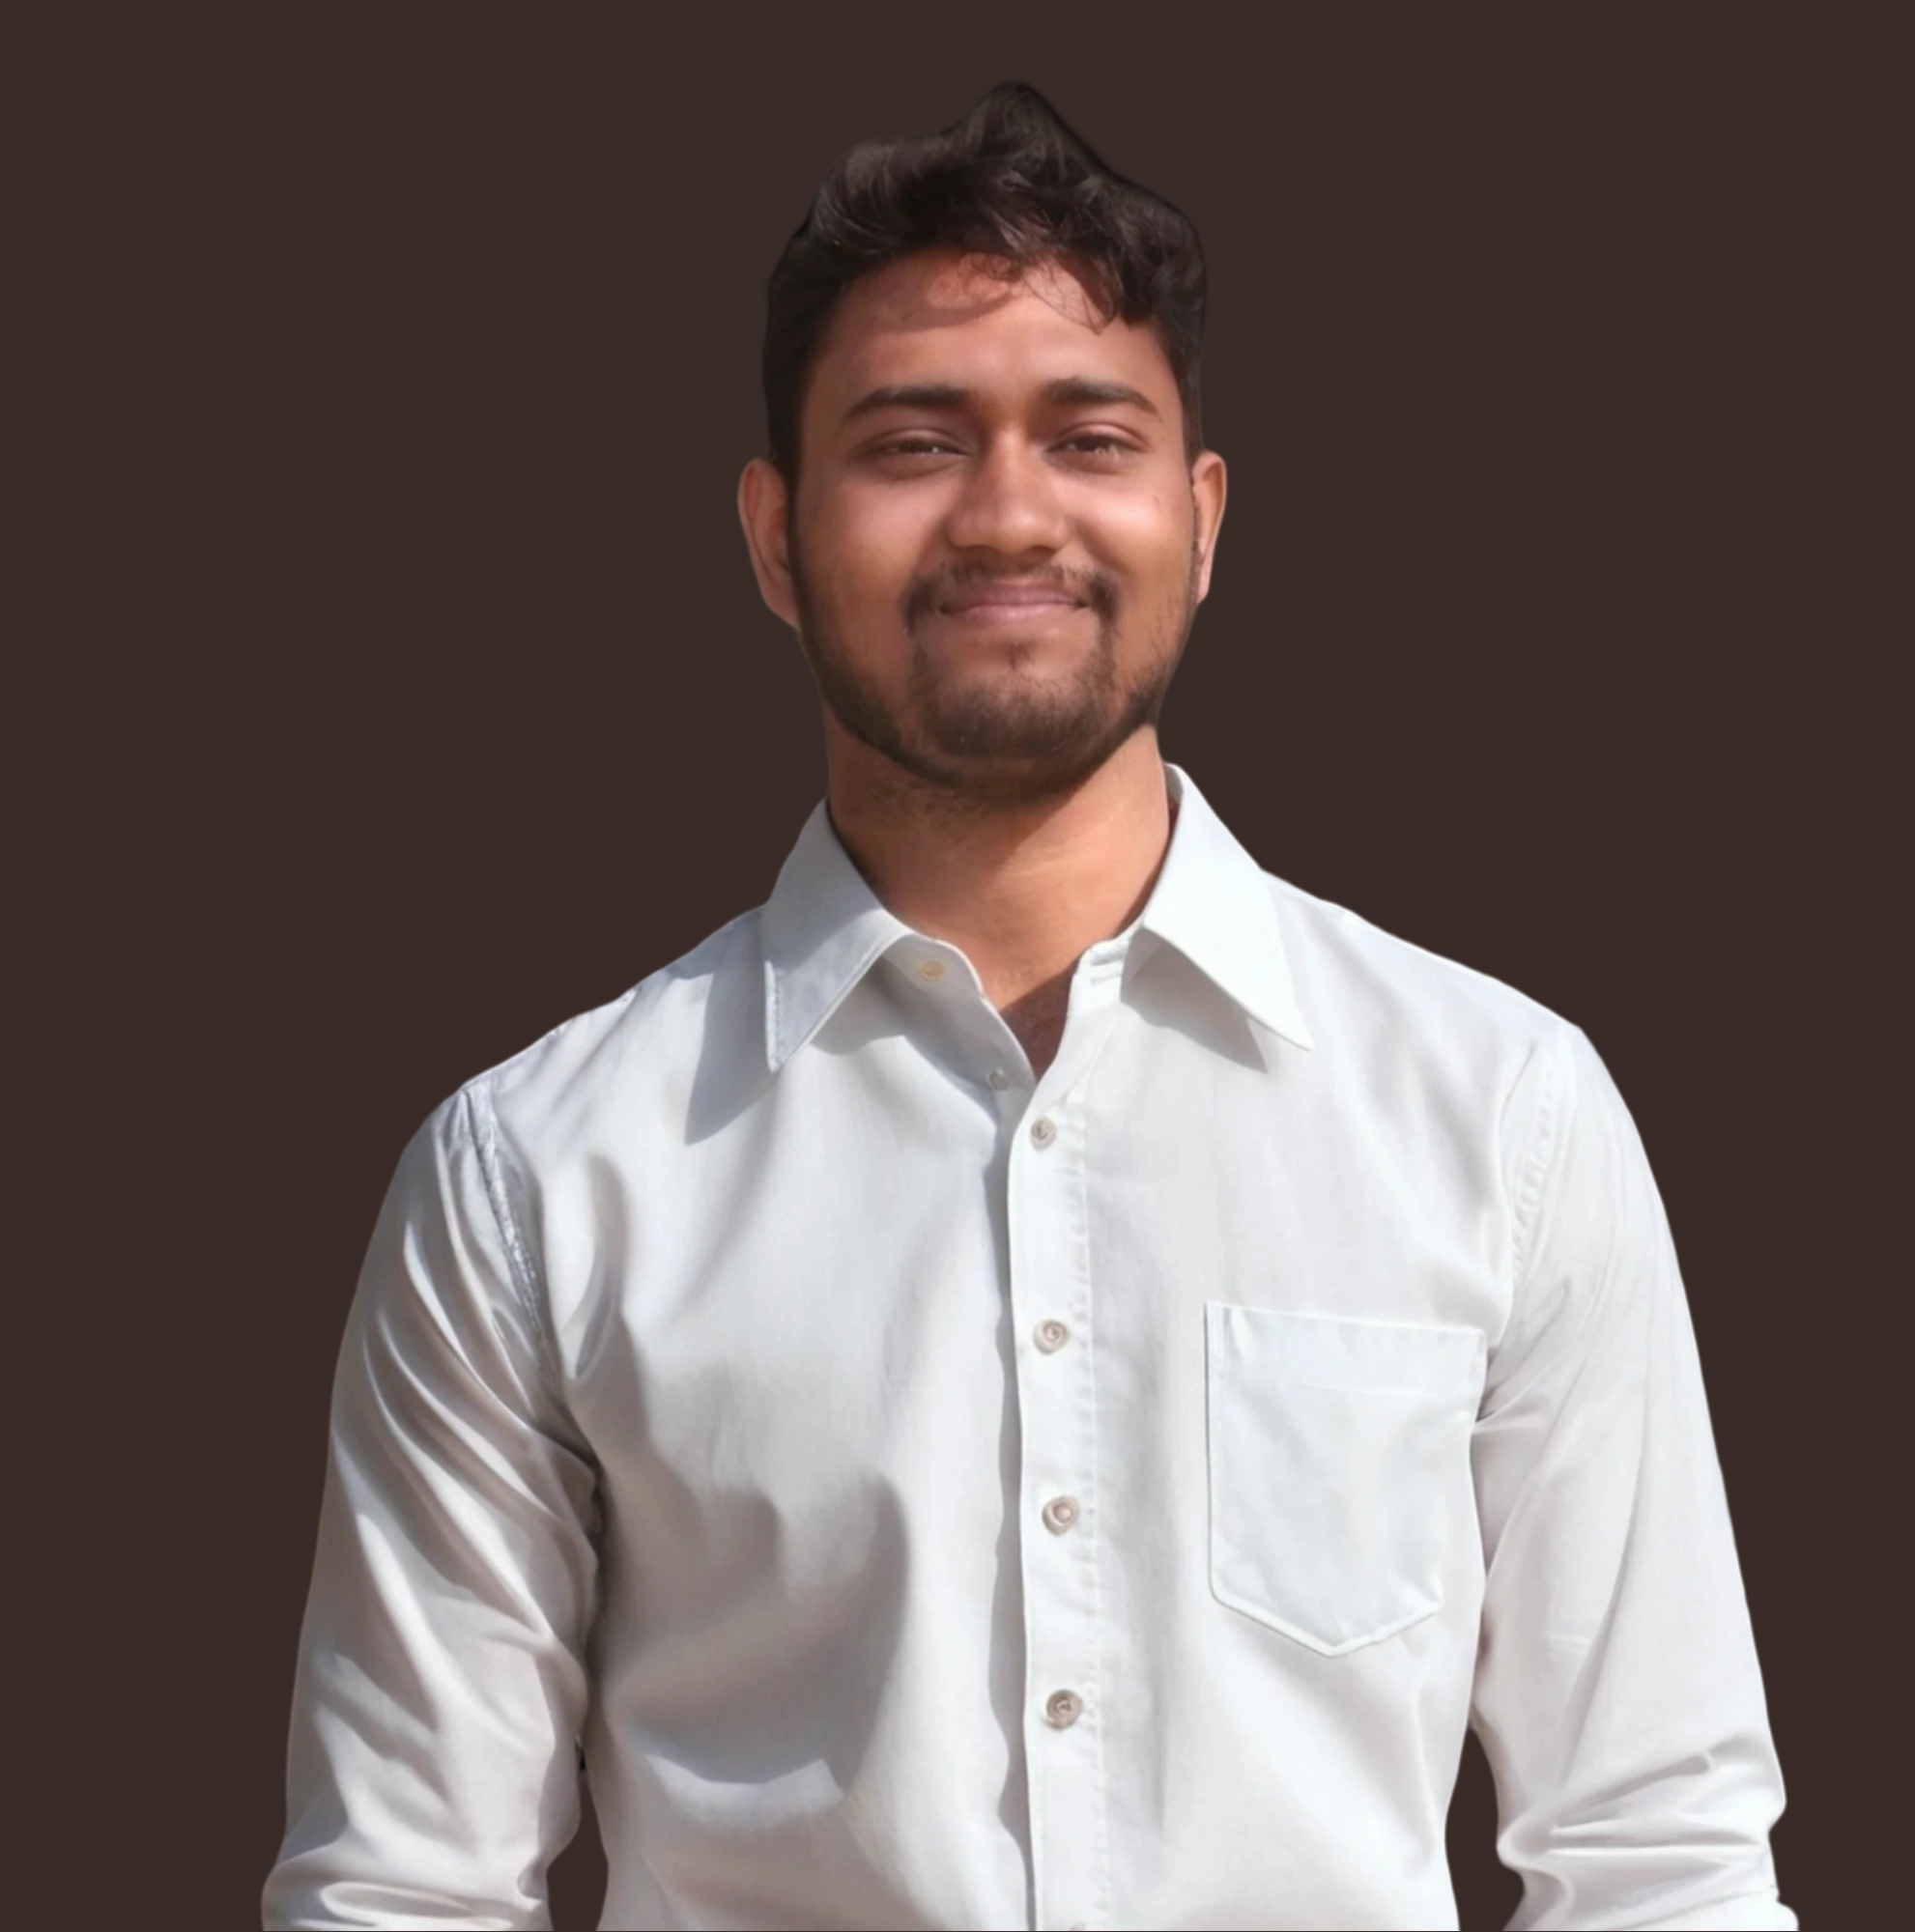
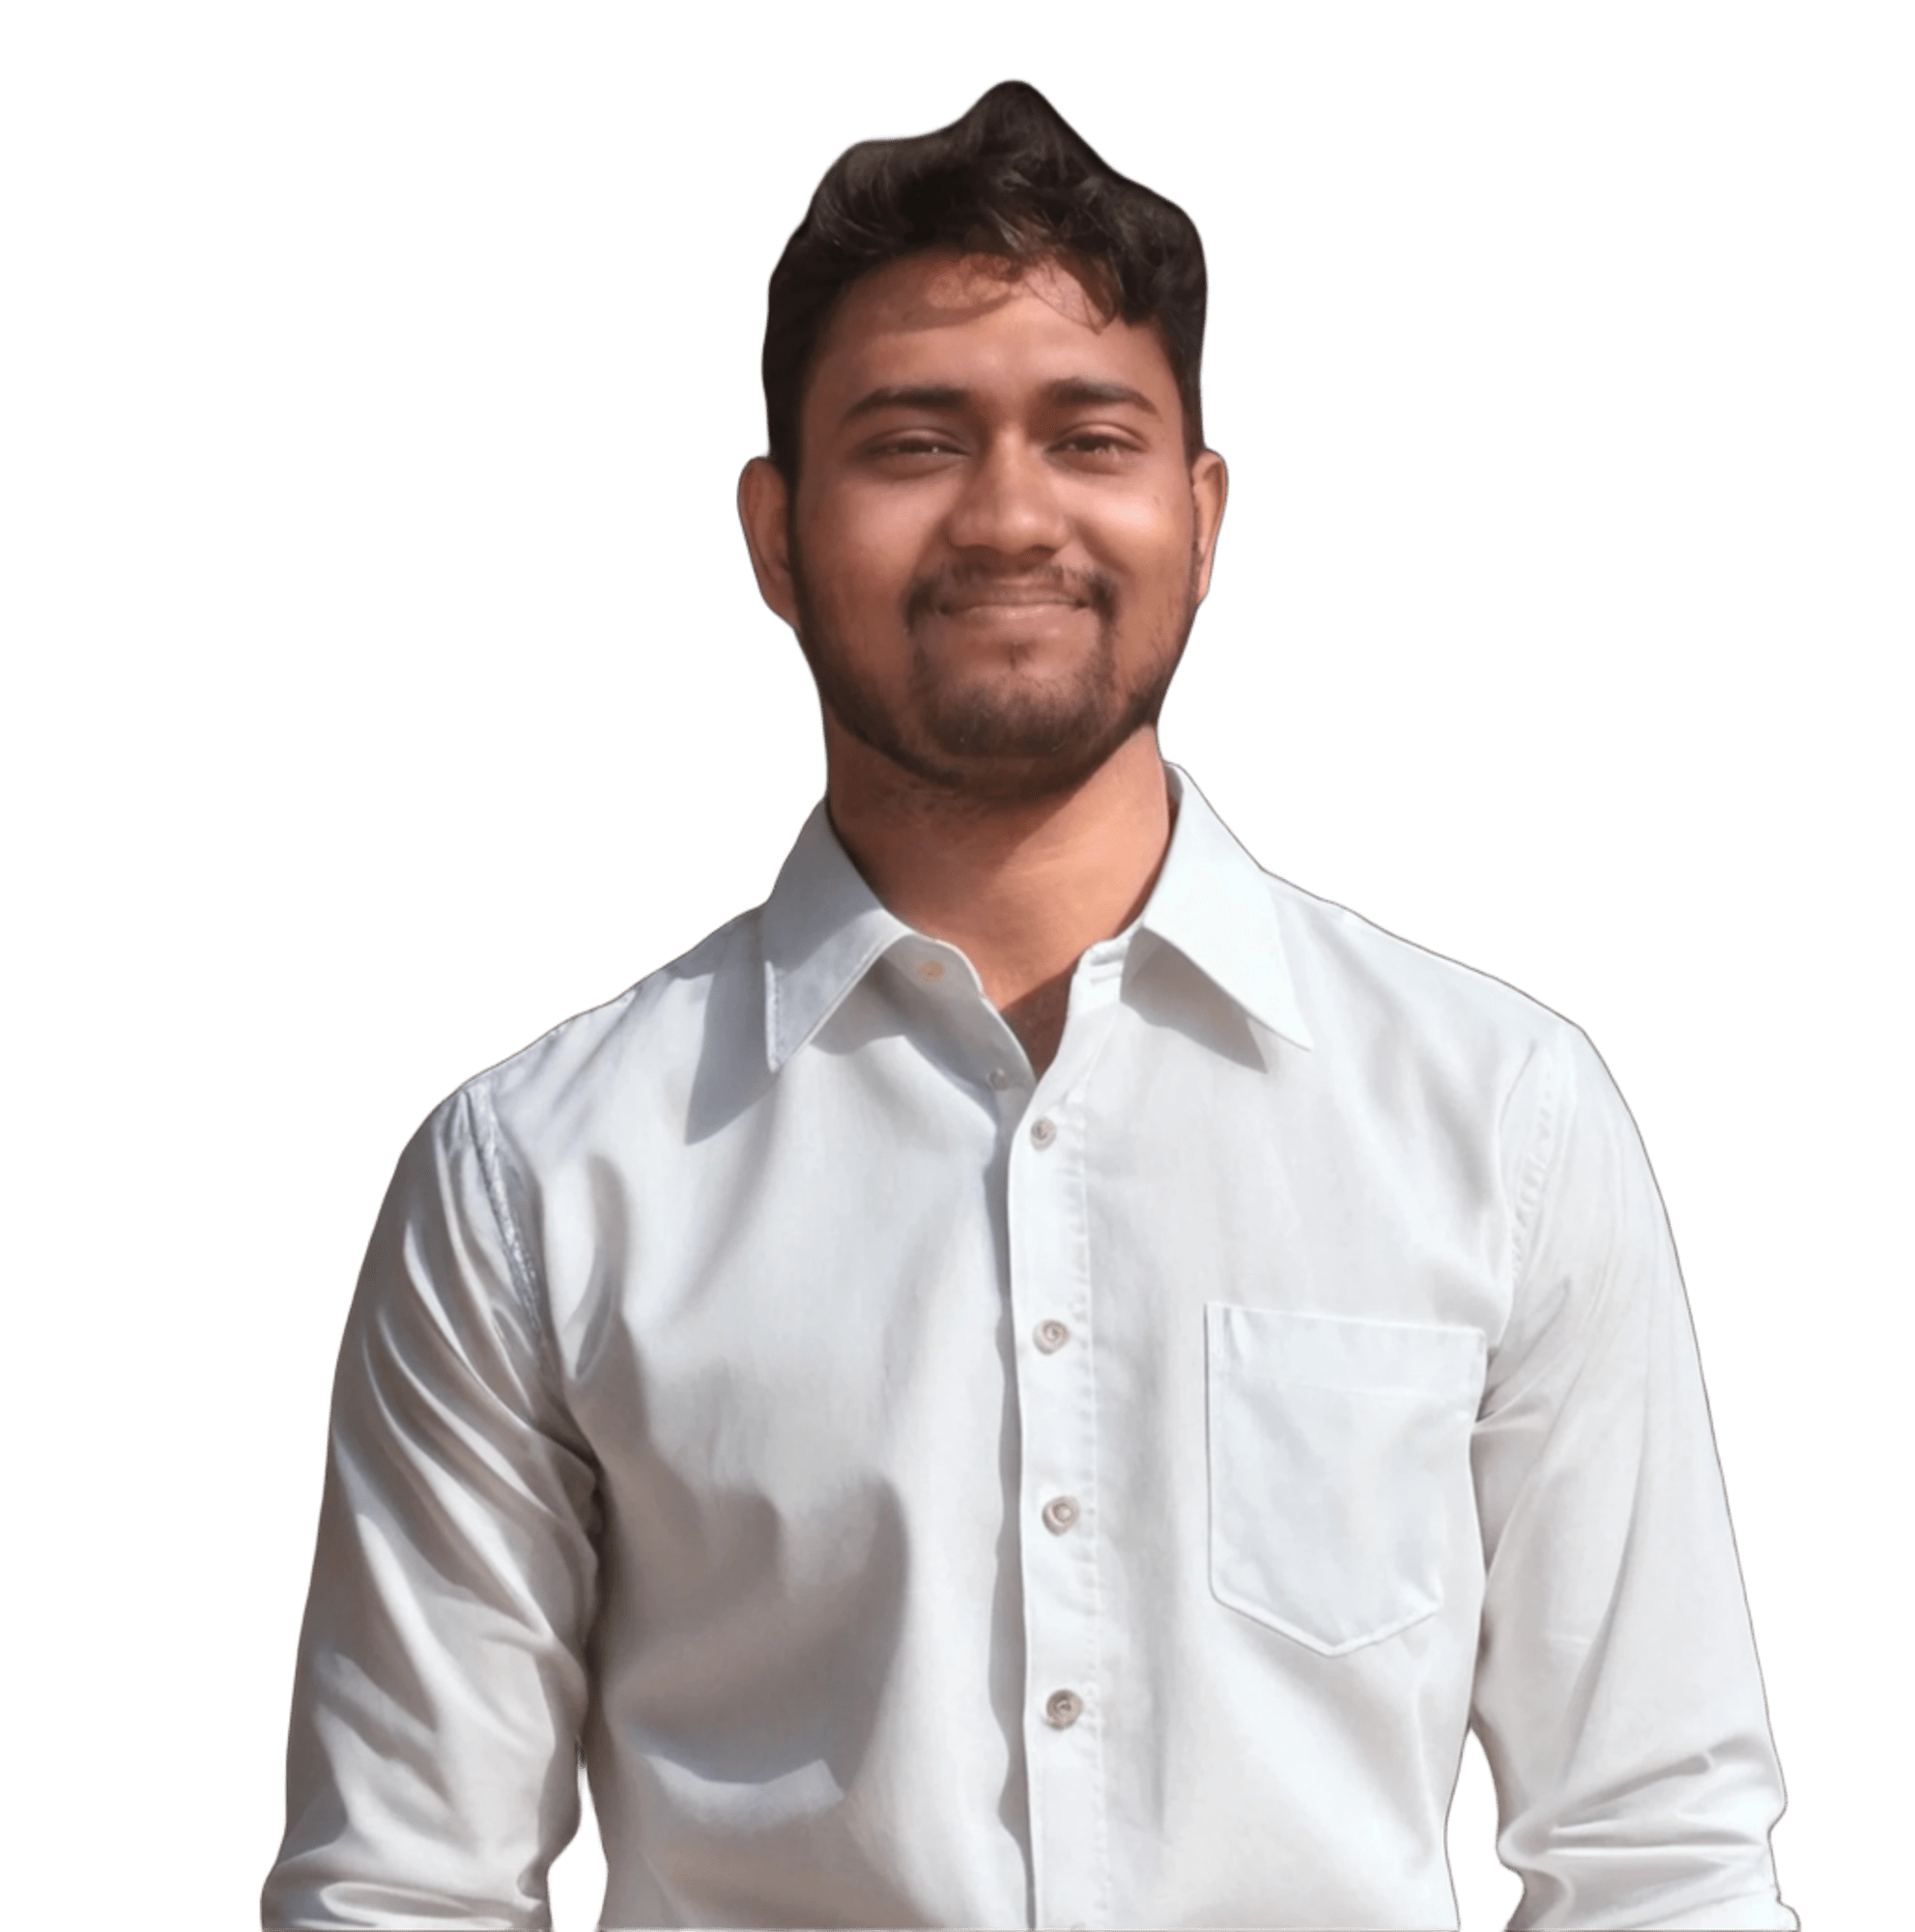
about section UI updated

diff --git a/src/app/sections/about.jsx b/src/app/sections/about.jsx
@@ -9,6 +9,13 @@ import git from "@/app/assets/skills badge/git.svg"
 import github from "@/app/assets/skills badge/github.svg"
 import Image from "next/image"
 import { Accordion, AccordionItem as Item } from '@szhsin/react-accordion';
+import { IoBriefcaseOutline } from "react-icons/io5";
+import { SlGlobe } from "react-icons/sl";
+import { TbPuzzle } from "react-icons/tb";
+import { FaRegUser } from "react-icons/fa6";
+import { FaCode } from "react-icons/fa6";
+import { FiServer } from "react-icons/fi";
+import { IoMailOutline } from "react-icons/io5";
 import styles from "./accordion.module.css";
 import { IoIosArrowDown } from "react-icons/io";
 import { TiInfoLarge } from "react-icons/ti";
@@ -26,10 +33,10 @@ const AccordionItem = ({ header, ...rest }) => (
                 <IoIosArrowDown className={styles.chevron} />
             </>
         }
-        className={styles.item}
+        className={`${styles.item} mt-2  border !border-base-content/10 rounded-lg`}
         buttonProps={{
             className: ({ isEnter }) =>
-                `${styles.itemBtn} ${isEnter && styles.itemBtnExpanded}`,
+                `${styles.itemBtn} ${isEnter && styles.itemBtnExpanded} rounded-lg`,
         }}
         contentProps={{ className: styles.itemContent }}
         panelProps={{ className: styles.itemPanel }}
@@ -46,31 +53,37 @@ function About() {
                     <div className=" max-w-[60ch] xl:mx-auto">
 
                         <div className="space-y-4 ">
-                            <h2 className="text-2xl font-bold inline-flex gap-1.5 items-center">
-                                <TiInfoLarge className="text-3xl" /> About Me
-                            </h2>
+
+                            <div>
+                                <h2 className="text-2xl font-bold tracking-wider">
+                                    About Me
+                                </h2>
+                                <div className="w-12 h-1 bg-warning/80 rounded-full mt-3"></div>
+                            </div>
 
                             <AboutYear />
 
-                            <p className="pl-4 text-lg">As someone who spends most of my time in front of a computer, I've developed a knack for <strong>learning quickly</strong> and <strong>solving tech-related challenges</strong>. Whether it's <strong>debugging code</strong> or assisting friends with their PC issues through TeamViewer, technology has always been a natural strength of mine.</p>
+                            <p className="text-lg">As someone who spends most of my time in front of a computer, I've developed a knack for <strong>learning quickly</strong> and <strong>solving tech-related challenges</strong>. Whether it's <strong>debugging code</strong> or assisting friends with their PC issues through TeamViewer, technology has always been a natural strength of mine.</p>
                         </div>
 
                         <div className="mt-8 space-y-4 ">
-                            <h2 className="text-2xl font-bold inline-flex gap-2 items-center">
-                                <PiStarFourFill className="text-xl" /> Skills
+                            <h2 className="text-warning font-bold inline-flex gap-2 items-center">
+                                <FaCode className="-mt-0.5" size={20} /> SKILLS
                             </h2>
-                            <p className="pl-4 text-lg">I spent two years self-learning web development before enrolling in a professional MERN stack course. I now specialize in:</p>
-                            <div className="flex flex-wrap gap-2 pl-4">
+
+                            <p className="text-lg">I spent two years self-learning web development before enrolling in a professional MERN stack course. I now specialize in:</p>
+
+                            <div className="flex flex-wrap gap-2">
                                 {/* later badges are downloaded from: https://github.com/inttter/md-badges?tab=readme-ov-file */}
-                                <Image className="rounded-sm border border-base-100 size-auto" src={nextjs} alt="next JS logo" />
-                                <Image className="rounded-sm border border-base-100/50 size-auto" src={express} alt="expressJs logo" />
-                                <Image className="rounded-sm border border-base-100/50 size-auto" src={mongodb} alt="mongodb logo" />
-                                <Image className="rounded-sm border border-base-100/50 w-[90px] h-auto" src={postgres} alt="postgres logo" />
-                                <Image className="rounded-sm border border-base-100/50 w-[90px] h-auto" src={prisma} alt="prisma logo" />
-                                <Image className="rounded-sm border border-base-100/50 w-[90px] h-auto" src={authjs} alt="authjs logo" />
-                                <Image className="rounded-sm border border-base-100/50 size-auto" src={tailwind} alt="tailwind logo" />
-                                <Image className="rounded-sm border border-base-100/50 size-auto" src={git} alt="git logo" />
-                                <Image className="rounded-sm border border-base-100/50 size-auto" src={github} alt="github logo" />
+                                <Image className="rounded-sm border border-base-content/30 size-auto" src={nextjs} alt="next JS logo" />
+                                <Image className="rounded-sm border border-base-content/30 size-auto" src={express} alt="expressJs logo" />
+                                <Image className="rounded-sm border border-base-content/30 size-auto" src={mongodb} alt="mongodb logo" />
+                                <Image className="rounded-sm border border-base-content/30 w-[90px] h-auto" src={postgres} alt="postgres logo" />
+                                <Image className="rounded-sm border border-base-content/30 w-[90px] h-auto" src={prisma} alt="prisma logo" />
+                                <Image className="rounded-sm border border-base-content/30 w-[90px] h-auto" src={authjs} alt="authjs logo" />
+                                <Image className="rounded-sm border border-base-content/30 size-auto" src={tailwind} alt="tailwind logo" />
+                                <Image className="rounded-sm border border-base-content/30 size-auto" src={git} alt="git logo" />
+                                <Image className="rounded-sm border border-base-content/30 size-auto" src={github} alt="github logo" />
                             </div>
                         </div>
 
@@ -79,12 +92,21 @@ function About() {
                     <div>
 
                         <div className=" max-md:mt-8 ">
-                            <h2 className="text-2xl font-bold inline-flex gap-2 items-center">
-                                <FaQuestion className="text-xl" /> FAQs
-                            </h2>
-                            <div className={`${styles.accordion} ml-4`}>
+                            <div>
+                                <h2 className="text-2xl font-bold tracking-wider">
+                                    Frequently Asked Questions
+                                </h2>
+                                <div className="w-12 h-1 bg-warning/80 rounded-full mt-3 -mb-2"></div>
+                            </div>
+
+                            <div className={`${styles.accordion}`}>
                                 <Accordion transition transitionTimeout={250}>
-                                    <AccordionItem header="What type of services do you offer?">
+                                    <AccordionItem header={
+                                        <div className="flex gap-4 items-center">
+                                            <IoBriefcaseOutline className="text-warning/80" size={24} />
+                                            <p className="font-medium line-clamp-1">What type of services do you offer ?</p>
+                                        </div>
+                                    }>
                                         <ol className="list-decimal list-inside space-y-1">
                                             <li>Converting PSD/Figma designs into responsive, interactive React applications.</li>
                                             <li>Designing and developing RESTful APIs using MongoDB or Postgresql.</li>
@@ -92,27 +114,57 @@ function About() {
                                         </ol>
                                     </AccordionItem>
 
-                                    <AccordionItem header="Do you offer website maintenance services?">
+                                    <AccordionItem header={
+                                        <div className="flex gap-4 items-center">
+                                            <SlGlobe className="text-warning/80" size={22} />
+                                            <p className="font-medium line-clamp-1">Do you offer website maintenance services ?</p>
+                                        </div>
+                                    }>
                                         Yes, I can provide ongoing maintenance and support for your website, including updates, bug fixes, and performance optimizations.
                                     </AccordionItem>
 
-                                    <AccordionItem header="Can you integrate third-party services?">
+                                    <AccordionItem header={
+                                        <div className="flex gap-4 items-center">
+                                            <TbPuzzle className="text-warning/80" size={26} />
+                                            <p className="font-medium line-clamp-1">Can you integrate third-party services ?</p>
+                                        </div>
+                                    }>
                                         Yes, I can integrate various third-party services like payment gateways, social media logins, maps, and more into your web application.
                                     </AccordionItem>
 
-                                    <AccordionItem header="Are you open to freelance or full-time work?">
+                                    <AccordionItem header={
+                                        <div className="flex gap-4 items-center">
+                                            <FaRegUser className="text-warning/80" size={22} />
+                                            <p className="font-medium line-clamp-1">Are you open to freelance or full-time work ?</p>
+                                        </div>
+                                    }>
                                         I do have a freelance account set up. But i'm also open to job opportunities at the moment.
                                     </AccordionItem>
 
-                                    <AccordionItem header="Do you work with other tech stacks?">
+                                    <AccordionItem header={
+                                        <div className="flex gap-4 items-center">
+                                            <FaCode className="text-warning/80" size={24} />
+                                            <p className="font-medium line-clamp-1">Do you work with other tech stacks ?</p>
+                                        </div>
+                                    }>
                                         No, My expertise lies in the MERN stack, and I'm not currently looking to switch to a different tech stack.
                                     </AccordionItem>
 
-                                    <AccordionItem header="Can you host my website?">
+                                    <AccordionItem header={
+                                        <div className="flex gap-4 items-center">
+                                            <FiServer className="text-warning/80" size={24} />
+                                            <p className="font-medium line-clamp-1">Can you host my website ?</p>
+                                        </div>
+                                    }>
                                         Yes, I can handle the full deployment of your React application, including setting up hosting and connecting it to your custom domain.
                                     </AccordionItem>
 
-                                    <AccordionItem header=" How can I contact you?">
+                                    <AccordionItem header={
+                                        <div className="flex gap-4 items-center">
+                                            <IoMailOutline className="text-warning/80" size={24} />
+                                            <p className="font-medium line-clamp-1">How can I contact you ?</p>
+                                        </div>
+                                    }>
                                         You can contact me through the contact form on my portfolio, or you can email me directly at [email redacted]
                                     </AccordionItem>
                                 </Accordion>

diff --git a/src/app/sections/journey.jsx b/src/app/sections/journey.jsx
@@ -41,52 +41,52 @@ function Journey() {
 
                     <div className="max-w-[60ch] xl:mx-auto">
 
-                        <h2 className="text-2xl font-bold w-11/12">My Journey</h2>
+                        <h2 className="text-2xl font-bold w-11/12 tracking-wider">My Journey</h2>
                         <p className="mt-2 mb-3 font-medium text-base-content/60">A timeline of my learning, growth, and achievements.</p>
 
                         <ul className="timeline timeline-snap-icon timeline-compact timeline-vertical">
                             <li>
-                                <div className="timeline-middle bg-primary-content p-2 rounded-full">
+                                <div className="timeline-middle bg-warning p-2 rounded-full">
                                     <PiBookOpenLight className="text-white" size={24} />
                                 </div>
                                 <div className="timeline-end md:mb-2 mt-4 ml-4">
-                                    <time className="text-xs text-base-100 bg-primary-content/80 py-1 px-2 rounded-lg">January 2021</time>
+                                    <time className="text-xs text-base-100 bg-warning/80 py-1 px-2 rounded-lg">January 2021</time>
                                     <div className="text-lg font-semibold mt-2 mb-0.5 leading-normal">Started Learning Web Development</div>
                                     <p className="text-sm leading-normal font-medium text-base-content/60">Started learning web development from YouTube and self-practice. Spent around two years building a strong foundation in HTML, CSS, JavaScript, ReactJS, ExpressJS responsive design, and programming fundamentals.</p>
                                 </div>
-                                <hr className="bg-primary-content/50" />
+                                <hr className="bg-warning/50" />
                             </li>
                             <li>
-                                <hr className="bg-primary-content/50" />
-                                <div className="timeline-middle bg-primary-content p-2 rounded-full">
+                                <hr className="bg-warning/50" />
+                                <div className="timeline-middle bg-warning p-2 rounded-full">
                                     <SlGraduation className="text-white" size={24} />
                                 </div>
                                 <div className="timeline-end md:mb-2 mt-4 ml-4">
-                                    <time className="text-xs text-base-100 bg-primary-content/80 py-1 px-2 rounded-lg">July 2024</time>
+                                    <time className="text-xs text-base-100 bg-warning/80 py-1 px-2 rounded-lg">July 2024</time>
                                     <div className="text-lg font-semibold mt-2 mb-0.5 leading-normal">Complete Web Development Course</div>
                                     <p className="text-sm leading-normal font-medium text-base-content/60">Completed a 6-month MERN Stack course from Programming Hero. Built multiple projects and my portfolio during this time, earned a certificate, and got selected for the SCIC program.</p>
                                 </div>
-                                <hr className="bg-primary-content/50" />
+                                <hr className="bg-warning/50" />
                             </li>
                             <li>
-                                <hr className="bg-primary-content/50" />
-                                <div className="timeline-middle bg-primary-content p-2 rounded-full">
+                                <hr className="bg-warning/50" />
+                                <div className="timeline-middle bg-warning p-2 rounded-full">
                                     <RiBriefcaseFill className="text-white" size={24} />
                                 </div>
                                 <div className="timeline-end md:mb-2 mt-4 ml-4">
-                                    <time className="text-xs text-base-100 bg-primary-content/80 py-1 px-2 rounded-lg">July 2025</time>
+                                    <time className="text-xs text-base-100 bg-warning/80 py-1 px-2 rounded-lg">July 2025</time>
                                     <div className="text-lg font-semibold mt-2 mb-0.5 leading-normal">MERN Stack Internship — Aspire Internship, CUET</div>
                                     <p className="text-sm leading-normal font-medium text-base-content/60">Completed a 4-month MERN Stack internship at Chittagong University of Engineering & Technology. Worked on converting Figma designs into responsive frontends, deploying projects to cPanel, and leading a frontend team for a CMS project in the final month.</p>
                                 </div>
-                                <hr className="bg-primary-content/50" />
+                                <hr className="bg-warning/50" />
                             </li>
                             <li>
-                                <hr className="bg-primary-content/50" />
-                                <div className="timeline-middle bg-primary-content p-2 rounded-full">
+                                <hr className="bg-warning/50" />
+                                <div className="timeline-middle bg-warning p-2 rounded-full">
                                     <MdLaptopMac className="text-white" size={24} />
                                 </div>
                                 <div className="timeline-end md:mb-2 mt-4 ml-4">
-                                    <time className="text-xs text-base-100 bg-primary-content/80 py-1 px-2 rounded-lg">April 2026</time>
+                                    <time className="text-xs text-base-100 bg-warning/80 py-1 px-2 rounded-lg">April 2026</time>
                                     <div className="text-lg font-semibold mt-2 mb-0.5 leading-normal">Freelancing Training — DYD E-Learning & Earning LTD</div>
                                     <p className="text-sm leading-normal font-medium text-base-content/60">Joined a 3-month freelancing program under Department of Youth Development. Learned WordPress, SEO, and digital marketing, and received a government-verifiable certificate after completion.</p>
                                 </div>
@@ -98,7 +98,7 @@ function Journey() {
                     <div>
 
                         <div className="flex items-center gap-4 mb-2">
-                            <AchievementIcon className="text-primary-content size-8 -mt-2" />
+                            <AchievementIcon className="text-warning size-8 -mt-2" />
 
                             <p className="text-lg font-semibold -ml-1">Certificates</p>
                             <hr className="w-full border-gray-300" />

diff --git a/src/app/sections/banner.jsx b/src/app/sections/banner.jsx
@@ -22,7 +22,7 @@ function Banner() {
                     <div className="max-w-[75ch] mx-auto space-y-2 lg:space-y-4 max-lg:order-1 ">
                         <div className="text-2xl min-[350px]:text-4xl min-[1020px]:text-6xl">
                             <p className="font-bold mb-2">Hello ! I'm</p>
-                            <h1 className="font-bold">Mohammad Yasin,</h1>
+                            <h1 className="font-bold tracking-wider">Mohammad Yasin,</h1>
                         </div>
                         <div className="my-5 xl:my-10">
                             <h2 className="text-lg min-[350px]:text-xl lg:text-2xl mb-3">I build Next.js web applications for startups and small businesses.</h2>
@@ -61,7 +61,7 @@ function Banner() {
                         }}
                         style={{ willChange: "transform" }}
                     >
-                        <Image className="object-cover object-top" src={myPhoto} alt="dev's photo" loading="eager" />
+                        <Image className="object-cover object-top bg-[#392c28]" src={myPhoto} alt="dev's photo" loading="eager" />
                     </motion.div>
 
                 </div>

diff --git a/src/app/sections/about-year.jsx b/src/app/sections/about-year.jsx
@@ -5,6 +5,6 @@ export default function AboutYear() {
     const curYear = new Date().getFullYear()
 
     return (
-        <p className="pl-4 text-lg">I'm a <strong>{curYear - 2003}-year-old MERN stack developer</strong> with a strong foundation in the basics of web development.</p>
+        <p className="text-lg">I'm a <strong className='text-warning'>{curYear - 2003}-year-old MERN stack developer</strong> with a strong foundation in the basics of web development.</p>
     )
 }

diff --git a/src/app/sections/projects.jsx b/src/app/sections/projects.jsx
@@ -30,7 +30,7 @@ function Projects() {
                 <div className="grid md:grid-cols-2 gap-4 w-11/12 mx-auto min-[1120px]:items-center mt-20">
 
                     <div className=" max-w-[60ch] xl:mx-auto">
-                        <h2 className="text-2xl font-bold">My Projects</h2>
+                        <h2 className="text-2xl font-bold tracking-wider">My Projects</h2>
                         <p className="text-xs select-none opacity-0">This is dummy text to keep the header size same as the above sections. this text ensures that projects heading takes same space as all the other section in every device size.</p>
                     </div>
                 </div>